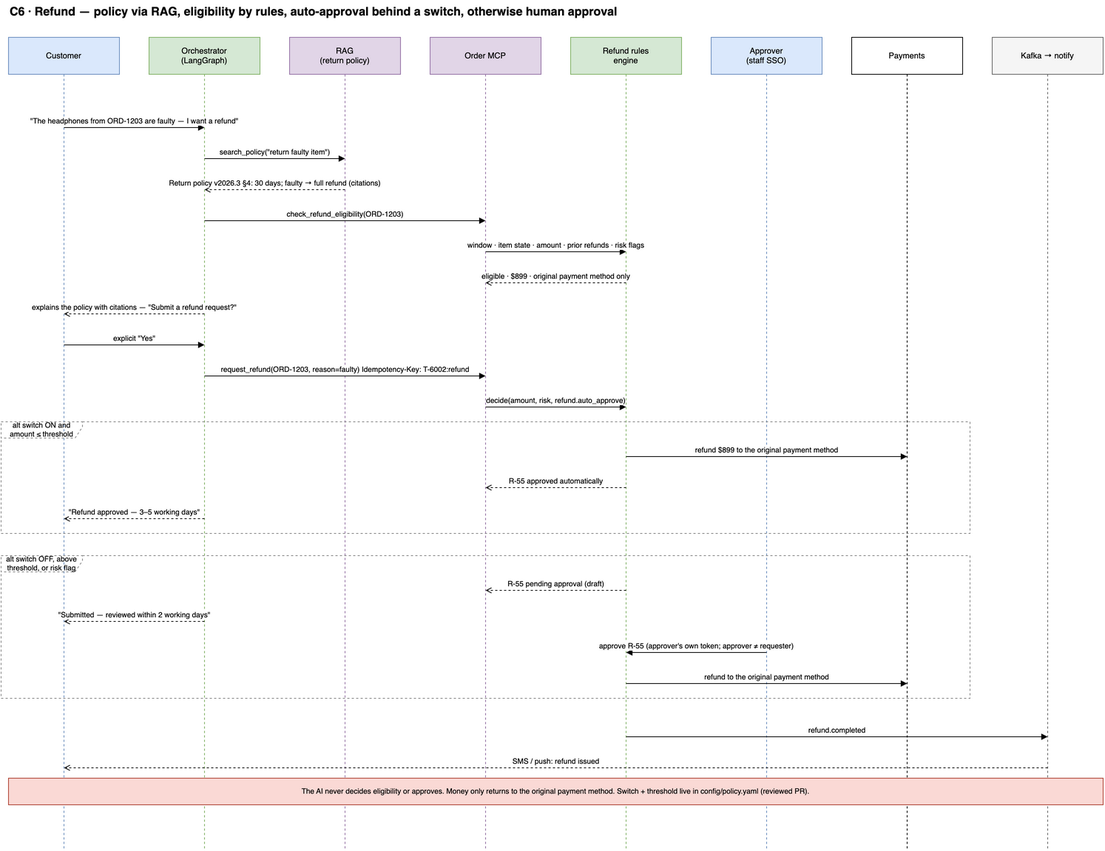
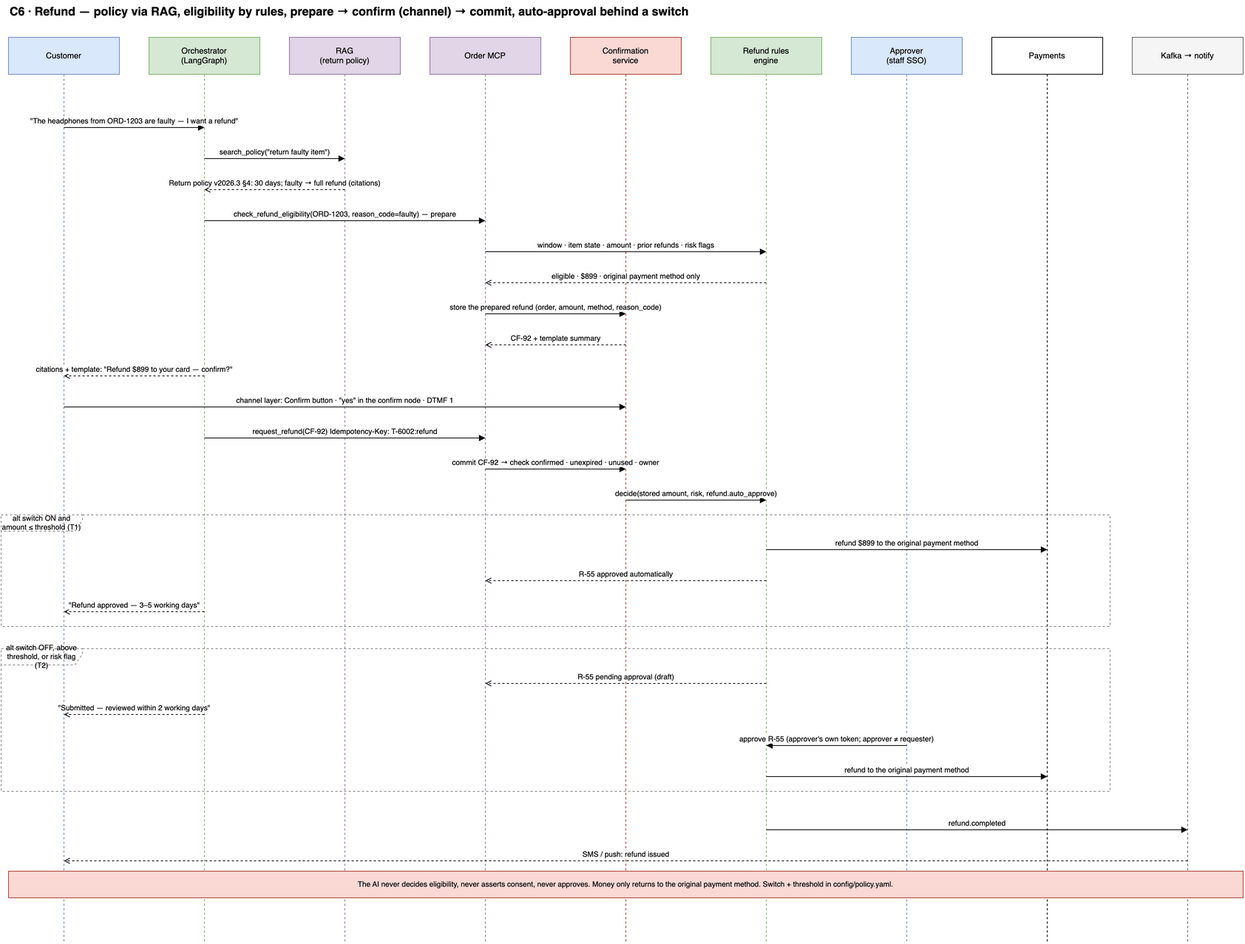
v1.16: T1 contract covers every customer-confirmed write (confirmation service)

diff --git a/tools/gen_sequences.py b/tools/gen_sequences.py
@@ -231,8 +231,9 @@ save(s, "C4-approval-account-change.drawio")
 
 # ---------------- C5 Orders: history lookup + place order ----------------
 s = Sequence("C5 Orders", [("c", "Customer<br>(chat / voice)", "client"), ("or", "Orchestrator<br>(LangGraph)", "core"), ("om", "Order MCP", "agent"),
-                            ("rc", "Redis-cache", "data"), ("os", "Order service<br>(internal GW)", "ext"), ("ar", "Order archive<br>(> 90 days)", "data")])
-s.text("C5 · Orders — history lookup, then place order with quote → confirm → commit", 40, 10, 1100, 30, 16, True)
+                            ("cf", "Confirmation<br>service", "sec"), ("rc", "Redis-cache", "data"), ("os", "Order service<br>(internal GW)", "ext"),
+                            ("ar", "Order archive<br>(> 90 days)", "data")])
+s.text("C5 · Orders — history lookup, then place order with prepare → confirm (channel) → commit", 40, 10, 1200, 30, 16, True)
 s.note_over("c", "ar", "Customer verified · customer_id comes from the token's sub, never a tool argument", zone="sec")
 s.msg("c", "or", "\"The headphones I bought last March?\"")
 s.msg("or", "om", "search_order_history(keyword=headphones, date_range=2025-03, limit≤5)")
@@ -247,49 +248,56 @@ s.msg("or", "c", "chat: UI renders order cards from tool data (not LLM text)", r
 s.msg("or", "c", "voice: \"Two orders in March — the 12th or the 28th?\"", ret=True)
 s.frame("alt  channel", "c", "or", f0, s.y + 20); s.y += 30
 s.msg("c", "or", "\"Order the same again\"")
-s.msg("or", "om", "quote_order(items of ORD-1190, address_ref=default)")
+s.msg("or", "om", "quote_order(items of ORD-1190, address_ref=default)  — prepare")
 s.msg("om", "os", "POST /orders:quote")
-s.msg("os", "om", "Q-77: $899, delivery Fri, confirmation_token (5 min, bound to customer + payload hash)", ret=True)
-s.msg("or", "c", "\"$899, delivered Friday to your default address — confirm?\" (button / say yes / press 1)", ret=True)
-s.msg("c", "or", "explicit \"Yes\"")
-s.msg("or", "om", "place_order(confirmation_token)  — no other parameters")
-s.msg("om", "os", "POST /orders  Idempotency-Key: T-6001:place")
-s.msg("os", "os", "verify token signature · payload hash · expiry · ownership")
+s.msg("os", "om", "Q-77: $899, delivery Fri", ret=True)
+s.msg("om", "cf", "store the prepared action (customer, items, price, address)")
+s.msg("cf", "om", "confirmation_id CF-81 (5 min, single use) + template summary", ret=True)
+s.msg("or", "c", "template from CF-81: \"$899, Friday, default address — confirm?\"", ret=True)
+s.msg("c", "cf", "channel layer: Confirm button (chat) · \"yes\" in the confirm node or DTMF 1 (voice)")
+s.msg("cf", "cf", "CF-81 confirmed by channel (time, channel)")
+s.msg("or", "om", "place_order(CF-81)  — no other parameters")
+s.msg("om", "cf", "commit CF-81")
+s.msg("cf", "cf", "check: confirmed by channel · unexpired · unused · owner")
+s.msg("cf", "os", "POST /orders (stored payload)  Idempotency-Key: T-6001:place")
 s.msg("os", "om", "ORD-1203 created", ret=True)
 s.msg("om", "rc", "purge this customer's order cache")
 s.msg("or", "c", "\"Order ORD-1203 placed\" + order card", ret=True)
-s.note_over("c", "ar", "After confirmation the LLM can't change anything: commit carries only the token; a replay returns the same order", zone="sec")
+s.note_over("c", "ar", "The model never asserts consent and can't change anything after confirmation: commit carries only the ID; a replay returns the same order", zone="sec")
 save(s, "C5-orders.drawio")
 
 # ---------------- C6 Refund ----------------
 s = Sequence("C6 Refund", [("c", "Customer", "client"), ("or", "Orchestrator<br>(LangGraph)", "core"), ("rag", "RAG<br>(return policy)", "agent"),
-                            ("om", "Order MCP", "agent"), ("re", "Refund rules<br>engine", "core"), ("ap", "Approver<br>(staff SSO)", "client"),
-                            ("pay", "Payments", "ext"), ("kf", "Kafka → notify", "data")])
-s.text("C6 · Refund — policy via RAG, eligibility by rules, auto-approval behind a switch, otherwise human approval", 40, 10, 1300, 30, 16, True)
+                            ("om", "Order MCP", "agent"), ("cf", "Confirmation<br>service", "sec"), ("re", "Refund rules<br>engine", "core"),
+                            ("ap", "Approver<br>(staff SSO)", "client"), ("pay", "Payments", "ext"), ("kf", "Kafka → notify", "data")])
+s.text("C6 · Refund — policy via RAG, eligibility by rules, prepare → confirm (channel) → commit, auto-approval behind a switch", 40, 10, 1500, 30, 16, True)
 s.msg("c", "or", "\"The headphones from ORD-1203 are faulty — I want a refund\"")
 s.msg("or", "rag", "search_policy(\"return faulty item\")")
 s.msg("rag", "or", "Return policy v2026.3 §4: 30 days; faulty → full refund (citations)", ret=True)
-s.msg("or", "om", "check_refund_eligibility(ORD-1203)")
+s.msg("or", "om", "check_refund_eligibility(ORD-1203, reason_code=faulty)  — prepare")
 s.msg("om", "re", "window · item state · amount · prior refunds · risk flags")
 s.msg("re", "om", "eligible · $899 · original payment method only", ret=True)
-s.msg("or", "c", "explains the policy with citations — \"Submit a refund request?\"", ret=True)
-s.msg("c", "or", "explicit \"Yes\"")
-s.msg("or", "om", "request_refund(ORD-1203, reason=faulty)  Idempotency-Key: T-6002:refund")
-s.msg("om", "re", "decide(amount, risk, refund.auto_approve)")
+s.msg("om", "cf", "store the prepared refund (order, amount, method, reason_code)")
+s.msg("cf", "om", "CF-92 + template summary", ret=True)
+s.msg("or", "c", "citations + template: \"Refund $899 to your card — confirm?\"", ret=True)
+s.msg("c", "cf", "channel layer: Confirm button · \"yes\" in the confirm node · DTMF 1")
+s.msg("or", "om", "request_refund(CF-92)  Idempotency-Key: T-6002:refund")
+s.msg("om", "cf", "commit CF-92 → check confirmed · unexpired · unused · owner")
+s.msg("cf", "re", "decide(stored amount, risk, refund.auto_approve)")
 f1 = s.y + 20; s.y += 25
 s.msg("re", "pay", "refund $899 to the original payment method")
 s.msg("re", "om", "R-55 approved automatically", ret=True)
 s.msg("or", "c", "\"Refund approved — 3–5 working days\"", ret=True)
-s.frame("alt  switch ON and amount ≤ threshold", "c", "pay", f1, s.y + 20); s.y += 30
+s.frame("alt  switch ON and amount ≤ threshold  (T1)", "c", "pay", f1, s.y + 20); s.y += 30
 f2 = s.y + 20; s.y += 25
 s.msg("re", "om", "R-55 pending approval (draft)", ret=True)
 s.msg("or", "c", "\"Submitted — reviewed within 2 working days\"", ret=True)
 s.msg("ap", "re", "approve R-55 (approver's own token; approver ≠ requester)")
 s.msg("re", "pay", "refund to the original payment method")
-s.frame("alt  switch OFF, above threshold, or risk flag", "c", "pay", f2, s.y + 20); s.y += 30
+s.frame("alt  switch OFF, above threshold, or risk flag  (T2)", "c", "pay", f2, s.y + 20); s.y += 30
 s.msg("re", "kf", "refund.completed")
 s.msg("kf", "c", "SMS / push: refund issued", ret=True)
-s.note_over("c", "kf", "The AI never decides eligibility or approves. Money only returns to the original payment method. Switch + threshold live in config/policy.yaml (reviewed PR).", zone="sec")
+s.note_over("c", "kf", "The AI never decides eligibility, never asserts consent, never approves. Money only returns to the original payment method. Switch + threshold in config/policy.yaml.", zone="sec")
 save(s, "C6-refund.drawio")
 
 # ---------------- C7 Customer satisfaction ----------------

diff --git a/README.md b/README.md
@@ -115,6 +115,7 @@ Both channels handle five kinds of request:
 | **MCP servers** | The tool layer between the agents and the systems of record: account, case, order, change (drafts only) and identity tools. The LLM only ever sees these tools, never the raw APIs ([4.6](#46-tool-and-api-contracts)). Each server has **its own mTLS client certificate**, so the internal gateway knows which server is calling and lets it reach only its own APIs (for example, the change server can create drafts but cannot read orders). |
 | **Model gateway** | Model routing, quotas, cost attribution per channel and feature |
 | **Approval service** | Staff approvals with separation of duties; executes the approved draft itself, then notifies the session or customer |
+| **Confirmation service** | Stores prepared T1 actions; records confirmations from the channel layer (button, voice confirmation node, DTMF); executes only confirmed, unexpired, unused actions |
 | **Notification service** | Post-call message to the chat thread, as a push notification, or by SMS |
 | **Data** | Postgres (checkpoints, tasks, interactions, audit index), Redis (sessions, OTP, rate limits, caches), Milvus (dense + BM25), object storage (clauses, uploads, recordings), Kafka (events) |
 | **Guardrail library** | Input and output rules shared by the runtime guardrails and the rule-eval service ([section 14](#14-guardrails)) |
@@ -198,7 +199,7 @@ In Anthropic's terms this is a **workflow, not an autonomous agent**: a routing 
 | `account_agent` | Qwen3-8B | `get_accounts`, `get_account_detail`, `get_billing_history` | `billing_explain` | verified |
 | `case_agent` | Qwen3-32B | `get_case_status`, `list_required_documents` | `case_guide`, `document_checklist` | verified |
 | `service_agent` | Qwen3-32B | `create_change_draft` (**draft only**) | `profile_change`, `address_change`, `cancellation` | verified + step-up |
-| `order_agent` | Qwen3-32B | `list_orders`, `search_order_history`, `get_order`, `get_spend_summary`, `track_shipment`, `quote_order`, `place_order`, `cancel_order`, `check_refund_eligibility`, `request_refund`, `get_refund_status`, `search_policy` | `order_lookup`, `returns_guide`, `refund_request` | verified; writes need explicit confirmation |
+| `order_agent` | Qwen3-32B | `list_orders`, `search_order_history`, `get_order`, `get_spend_summary`, `track_shipment`, `quote_order`, `place_order`, `preview_cancel`, `cancel_order`, `check_refund_eligibility`, `request_refund`, `get_refund_status`, `search_policy` | `order_lookup`, `returns_guide`, `refund_request` | verified; writes need explicit confirmation |
 
 ### 4.3 Configuration lives in code, not in prompts
 
@@ -251,7 +252,7 @@ Skills belong to the **domain pack**: another industry replaces the folders, not
 | | `cancellation` | Explain the consequences with citations (benefits lost, fees, cooling-off), create a cancellation request task, hand off. **No retention offers** (BND-SCP-07) | **Router** |
 | `order_agent` | `order_lookup` | Find the right order from vague descriptions (date, item, amount) | Model |
 | | `returns_guide` | Return eligibility and steps by product category | Model |
-| | `refund_request` | Quote → confirm → commit; above the threshold, a draft for approval | **Router** |
+| | `refund_request` | Prepare → confirm (by the channel) → commit; above the threshold, a draft for approval | **Router** |
 | shared | `vulnerable_customer` | Signs of distress or vulnerability → gentle tone, no selling, offer a human | Router (sentiment or keyword trigger) |
 
 **SKILL.md format.** Front matter is metadata that code checks at startup; the body is the procedure.
@@ -336,7 +337,7 @@ Static content goes first and dynamic content last, so **vLLM prefix caching** c
 | Tier | Examples | Flow |
 |---|---|---|
 | T0 · read | Order lookup and history, shipment, refund status, return policy | Direct call |
-| T1 · customer-confirmed write | Place an order; cancel an unshipped order; refunds under the auto-approval switch | **Quote → explicit confirmation → commit** |
+| T1 · customer-confirmed write | Place an order; cancel an unshipped order; refunds under the auto-approval switch | **Prepare → confirm (by the channel, not the model) → commit** |
 | T2 · draft + human approval | Refunds above the threshold or with risk flags; account changes | Draft, then approval ([C4](#9-business-flows)) |
 | T3 · never via AI | Change payout bank account or registered phone | Handoff only |
 
@@ -351,17 +352,22 @@ The boundaries these tiers enforce are listed in [Appendix A.2](#a2-action-bound
 | `get_order(order_id)` | T0 | `GET /orders/{id}` |
 | `get_spend_summary(period, group_by?)` | T0 | `GET /customers/me/spend-summary` |
 | `track_shipment(order_id)` | T0 | `GET /orders/{id}/shipment` |
-| `quote_order(items, address_ref)` | T1 | `POST /orders:quote` → summary + `confirmation_token` |
-| `place_order(confirmation_token)` | T1 | `POST /orders` with `Idempotency-Key` |
-| `cancel_order(order_id)` | T1 | `POST /orders/{id}:cancel` (unshipped only) |
-| `check_refund_eligibility(order_id)` | T0 | `GET /orders/{id}/refund-eligibility` |
-| `request_refund(order_id, reason)` | T1 / T2 | `POST /orders/{id}/refund-requests` |
+| `quote_order(items, address_ref)` | T1 prepare | `POST /orders:quote` → template summary + `confirmation_id` |
+| `place_order(confirmation_id)` | T1 commit | `POST /orders` with `Idempotency-Key` |
+| `preview_cancel(order_id)` | T1 prepare | `GET /orders/{id}/cancellation-preview` (unshipped only) → summary + `confirmation_id` |
+| `cancel_order(confirmation_id)` | T1 commit | `POST /orders/{id}:cancel` |
+| `check_refund_eligibility(order_id, reason_code)` | T1 prepare | `GET /orders/{id}/refund-eligibility` → eligibility, amount, method + `confirmation_id` |
+| `request_refund(confirmation_id)` | T1 / T2 commit | `POST /orders/{id}/refund-requests` |
 | `get_refund_status(request_id)` | T0 | `GET /refund-requests/{id}` |
 | `search_policy(query)` | T0 | RAG over return and refund terms; **not an API** |
 
 **Contract rules**
 - **Ownership on every ID** (BOLA, OWASP API1): each `order_id` is checked against the token's `customer_id` (never an ID from the model).
-- **Two-step commit for T1 writes.** The quote returns a signed `confirmation_token` (5 minutes, bound to the customer and a hash of the payload). The customer confirms explicitly (a button in chat; "yes" or DTMF 1 on voice). The commit carries only the token, so the LLM can't change parameters after confirmation.
+- **T1 writes: prepare → confirm → commit, through the confirmation service.**
+  - **Prepare** (read only): `quote_order`, `preview_cancel` and `check_refund_eligibility` work out the exact action from system data (customer from the token, order, amount, payment method, reason code) and **store it server-side in the confirmation service**. They return a template summary and an opaque, single-use `confirmation_id` (5 minutes).
+  - **Confirm, outside the LLM:** the summary is rendered **by template from the stored action**, never paraphrased by the LLM. Chat shows a confirmation card, and the button click goes from the channel layer straight to the confirmation service. Voice reads the template in a dedicated confirmation node; the answer is classified strictly as yes or no, and anything unclear falls back to DTMF 1. The confirmation service records **confirmed by the channel**, with time and channel.
+  - **Commit:** `place_order`, `cancel_order` and `request_refund` take **only the `confirmation_id`**, no business parameters from the model. The stored action runs only if it was confirmed by the channel, hasn't expired or been used, and belongs to the caller. **A model's claim that "the customer confirmed" carries no weight.**
+  - T2 drafts (account changes) don't need this step; human approval protects them. `request_refund` always goes through confirmation; the rules engine then decides auto-approval (T1) or a draft for approval (T2).
 - **Idempotency:** every write takes `Idempotency-Key` (`task_id` + step); a replay returns the original result.
 - **Small results:** lists are paginated with a cursor and capped; each item is a summary (ID, date, amount, status, first item). Too many matches → return the count and ask the customer to narrow it down.
 - **Numbers come from the system.** Totals and spend summaries are computed by the API; the output guardrail checks that amounts in the answer match tool results.
@@ -373,6 +379,7 @@ The boundaries these tiers enforce are listed in [Appendix A.2](#a2-action-bound
 **Refunds**
 - **Eligibility is decided by the refund rules engine, not the LLM:** window, item state, amount, prior refunds, risk flags. The AI explains the return policy with citations.
 - **Money only returns to the original payment method**, which closes the "refund to a new account" attack.
+- **The reason is an enum `reason_code`** (faulty, not as described, …). The customer's own words are kept as a note and never drive a decision.
 - **Auto-approval is behind a switch** in `config/policy.yaml`, changed only through a reviewed pull request:
 
 ```yaml
@@ -737,13 +744,14 @@ Ownership checks always compare against the **token**, never an ID the model sup
 
 **Orders (C5).**
 - History: `search_order_history` queries the main store and the archive; results are summaries, cached for the session; chat shows order cards, voice narrows down.
-- Placing an order: quote → the customer confirms the summary explicitly → commit with the `confirmation_token` and an idempotency key.
+- Placing an order: `quote_order` stores the action in the confirmation service → the customer confirms a template summary through the channel (button, or "yes" / DTMF 1 on voice) → `place_order` with only the `confirmation_id` and an idempotency key.
 
 ![C5 Orders](docs/img/C5-orders.png)
 *C5 · Order history and placing an order — source: [`C5-orders.drawio`](docs/diagrams/C5-orders.drawio)*
 
 **Refund (C6).**
 - The AI explains the return policy from RAG with citations; the rules engine decides eligibility.
+- The eligibility check prepares the refund (`confirmation_id`); the customer confirms a template summary through the channel; `request_refund` takes only the ID.
 - With the switch on and the amount under the threshold, the refund is approved automatically; otherwise it becomes a draft for human approval, as in C4.
 - Money only returns to the original payment method.
 
@@ -1016,7 +1024,7 @@ Defence in depth: any layer can refuse, require step-up, or hand off to a human,
 | 1 · Input | Length (≤ 1,000 characters), rate limits per user and client, PII redacted in logs and traces; **pseudonymised for the LLM** (reversible placeholders such as `<ADDR_1>`, real values held in a per-session vault and substituted only inside tools); ID and card numbers never reach the LLM (DTMF or structured forms); injection classifier, uploads scanned (AV + CDR) with only the clean copy used, external text treated as data rather than instructions |
 | 2 · Identity and routing | Token `aud`, `scope` and `acr`; role → reachable agents; assurance level per intent (verify or step-up); tools = agent allowlist ∩ role; loop and token caps ([Appendix A](#appendix-a-system-boundaries)) |
 | 3 · Retrieval | Filters built from the token (visibility by role, clause version by contract start date, `owner_id`), never from the model |
-| 4 · Tools | Token exchange with a narrow `aud` and `scope`; ownership check plus row-level security; write tools that only create drafts; idempotency keys; quote → confirm → commit for customer-confirmed writes; human approval via `interrupt()`; refunds only to the original payment method, decided by the rules engine; never change phone or bank account |
+| 4 · Tools | Token exchange with a narrow `aud` and `scope`; ownership check plus row-level security; write tools that only create drafts; idempotency keys; prepare → confirm (by the channel, not the model) → commit for T1 writes; human approval via `interrupt()`; refunds only to the original payment method, decided by the rules engine; never change phone or bank account |
 | 5 · Output | Citation check (exists, was retrieved, correct version); fast faithfulness check (8B); no binding commitment; disclaimer when terms are discussed; PII leak check; language match; voice answers ≤ 3 sentences |
 
 **One rule set, three uses.** Each rule is defined once in Git (`evaluators/*.yaml`) and used in three places:
@@ -1630,7 +1638,7 @@ Tiers T0–T3 are defined in [section 4.6](#46-tool-and-api-contracts).
 |---|---|---|---|---|
 | BND-ACT-01 | **Never change the registered phone or payout bank account** | No such tool exists (T3) | Handoff | Social engineering; staged multi-turn requests |
 | BND-ACT-02 | Refunds go **only to the original payment method**; eligibility is decided by the rules engine | Rules engine + API | Rejected | "Refund to my new card", arguing eligibility with the AI |
-| BND-ACT-03 | Customer-confirmed writes only via **quote → explicit confirmation → commit** | Signed `confirmation_token` bound to the payload hash | Rejected | Changing parameters after confirmation; replay; a "yes" planted in a document |
+| BND-ACT-03 | **Every T1 write** (order, cancellation, refund) only via **prepare → confirm → commit**; the confirmation is recorded by the channel layer, never claimed by the model; commit takes only the `confirmation_id` | Confirmation service | Rejected | Swapping the order ID after confirmation; replaying an ID; injected "the customer has confirmed"; a "yes" planted in a document; an LLM summary that differs from the stored action |
 | BND-ACT-04 | **The AI never approves**; approval needs a human staff token and approver ≠ requester | Approval service | Rejected; alert | "I'm the approver", forged resume payloads |
 | BND-ACT-05 | Auto-refund only when the switch is on, the amount is under the threshold and there are no risk flags | `config/policy.yaml` + rules engine | Goes to human approval | Splitting one refund into many small ones; exceeding the 30-day count |
 | BND-ACT-06 | Workers can only call tools in their allowlist ∩ role | Tool binding | The tool isn't visible to the model | Asking for hidden tool names; tool names in injected text |
@@ -1697,7 +1705,7 @@ Numeric limits: timeouts, loop caps, token budgets, rate limits and retention. *
 | Voice access token | 10 min, never beyond the call; no refresh token | Re-verify |
 | Exchanged downstream token | 5 min | Exchange again |
 | Step-up freshness | `max_age = 300` s | Step-up again |
-| `confirmation_token` | 5 min, single use | Quote again |
+| `confirmation_id` | 5 min, single use; runs only if confirmed by the channel | Prepare again |
 | `survey_token` | 24 h, single use | Void |
 | JWKS cache | 1 h; refreshed immediately on an unknown `kid` | — |
 | Clock-skew leeway | 60 s | Rejected |

diff --git a/README.zh-CN.md b/README.zh-CN.md
@@ -117,6 +117,7 @@
 | **MCP server** | Agent 和业务系统之间的工具层：账户、工单、订单、变更（仅草稿）和身份工具。LLM 只能看到这些工具，永远看不到原始 API（[4.6](#46-tool-与-api-契约)）。每个 server 有 **自己的 mTLS 客户端证书**，内部网关因此知道是哪个 server 在调用，只允许它访问自己的 API（例如变更 server 能建草稿，但不能读订单）。 |
 | **模型网关** | 模型路由、配额、按渠道和功能统计成本 |
 | **审批服务** | 员工审批，职责分离；自己执行已批准的草稿，再通知会话或客户 |
+| **确认服务** | 保存准备好的 T1 操作；记录渠道层发来的确认（按钮、语音确认节点、DTMF）；只执行已确认、未过期、未使用的操作 |
 | **通知服务** | 通话后发消息到聊天线程、推送通知或短信 |
 | **数据** | Postgres（checkpoint、任务、交互记录、审计索引）、Redis（会话、OTP、限流、缓存）、Milvus（向量 + BM25）、对象存储（条款、上传文件、录音）、Kafka（事件） |
 | **护栏库** | 运行时护栏与 rule-eval 服务共用的输入和输出规则（[第 14 节](#14-护栏-guardrails)） |
@@ -200,7 +201,7 @@
 | `account_agent` | Qwen3-8B | `get_accounts`, `get_account_detail`, `get_billing_history` | `billing_explain` | 已核验 |
 | `case_agent` | Qwen3-32B | `get_case_status`, `list_required_documents` | `case_guide`, `document_checklist` | 已核验 |
 | `service_agent` | Qwen3-32B | `create_change_draft`（**仅草稿**） | `profile_change`, `address_change`, `cancellation` | 已核验 + step-up |
-| `order_agent` | Qwen3-32B | `list_orders`, `search_order_history`, `get_order`, `get_spend_summary`, `track_shipment`, `quote_order`, `place_order`, `cancel_order`, `check_refund_eligibility`, `request_refund`, `get_refund_status`, `search_policy` | `order_lookup`, `returns_guide`, `refund_request` | 已核验；写操作需要明确确认 |
+| `order_agent` | Qwen3-32B | `list_orders`, `search_order_history`, `get_order`, `get_spend_summary`, `track_shipment`, `quote_order`, `place_order`, `preview_cancel`, `cancel_order`, `check_refund_eligibility`, `request_refund`, `get_refund_status`, `search_policy` | `order_lookup`, `returns_guide`, `refund_request` | 已核验；写操作需要明确确认 |
 
 ### 4.3 配置写在代码里，不写在 prompt 里
 
@@ -253,7 +254,7 @@ Skill 属于 **行业包**：换一个行业时替换这些文件夹，核心不
 | | `cancellation` | 引用条款解释后果（失去的权益、费用、冷静期），建取消请求任务，转人工。**不做挽留**（BND-SCP-07） | **路由器** |
 | `order_agent` | `order_lookup` | 根据模糊描述（日期、商品、金额）找到正确的订单 | 模型 |
 | | `returns_guide` | 按商品类别说明退货条件和步骤 | 模型 |
-| | `refund_request` | 报价 → 确认 → 提交；超过阈值则生成草稿等待审批 | **路由器** |
+| | `refund_request` | 准备 → 确认（由渠道确认）→ 执行；超过阈值则生成草稿等待审批 | **路由器** |
 | 共享 | `vulnerable_customer` | 发现情绪困扰或弱势迹象 → 语气温和、不推销、主动提供人工 | 路由器（情绪或关键词触发） |
 
 **SKILL.md 格式。** Front matter 是启动时由代码校验的元数据；正文是处理流程。
@@ -338,7 +339,7 @@ eval_tags: [cancellation]
 | 级别 | 例子 | 流程 |
 |---|---|---|
 | T0 · 只读 | 订单查询与历史、物流、退款进度、退货政策 | 直接调用 |
-| T1 · 客户确认后执行 | 下单；取消未发货订单；自动批准开关范围内的退款 | **Quote → 明确确认 → commit** |
+| T1 · 客户确认后执行 | 下单；取消未发货订单；自动批准开关范围内的退款 | **准备 → 确认（由渠道确认，不由模型）→ 执行** |
 | T2 · 草稿 + 人工审批 | 超过阈值或有风险标记的退款；账户变更 | 先出草稿，再审批（[C4](#9-业务流程)） |
 | T3 · AI 永不执行 | 修改收款银行账户或登记手机号 | 只能转人工 |
 
@@ -353,17 +354,22 @@ eval_tags: [cancellation]
 | `get_order(order_id)` | T0 | `GET /orders/{id}` |
 | `get_spend_summary(period, group_by?)` | T0 | `GET /customers/me/spend-summary` |
 | `track_shipment(order_id)` | T0 | `GET /orders/{id}/shipment` |
-| `quote_order(items, address_ref)` | T1 | `POST /orders:quote` → 摘要 + `confirmation_token` |
-| `place_order(confirmation_token)` | T1 | `POST /orders`，带 `Idempotency-Key` |
-| `cancel_order(order_id)` | T1 | `POST /orders/{id}:cancel`（仅未发货） |
-| `check_refund_eligibility(order_id)` | T0 | `GET /orders/{id}/refund-eligibility` |
-| `request_refund(order_id, reason)` | T1 / T2 | `POST /orders/{id}/refund-requests` |
+| `quote_order(items, address_ref)` | T1 准备 | `POST /orders:quote` → 模板摘要 + `confirmation_id` |
+| `place_order(confirmation_id)` | T1 执行 | `POST /orders`，带 `Idempotency-Key` |
+| `preview_cancel(order_id)` | T1 准备 | `GET /orders/{id}/cancellation-preview`（仅未发货）→ 摘要 + `confirmation_id` |
+| `cancel_order(confirmation_id)` | T1 执行 | `POST /orders/{id}:cancel` |
+| `check_refund_eligibility(order_id, reason_code)` | T1 准备 | `GET /orders/{id}/refund-eligibility` → 资格、金额、退款方式 + `confirmation_id` |
+| `request_refund(confirmation_id)` | T1 / T2 执行 | `POST /orders/{id}/refund-requests` |
 | `get_refund_status(request_id)` | T0 | `GET /refund-requests/{id}` |
 | `search_policy(query)` | T0 | 对退货和退款条款做 RAG；**不是 API** |
 
 **契约规则**
 - **每个 ID 都校验归属**（BOLA，OWASP API1）：每个 `order_id` 都要和 token 对应的 `customer_id` 对比（从不使用模型给的 ID）。
-- **T1 写操作两步提交。** Quote 返回一个签名的 `confirmation_token`（5 分钟有效，绑定客户和请求内容的 hash）。客户明确确认（聊天里点按钮；语音里说"是"或按 1）。Commit 只带这个 token，所以客户确认之后 LLM 改不了任何参数。
+- **T1 写操作：准备 → 确认 → 执行，由确认服务负责。**
+  - **准备**（只读）：`quote_order`、`preview_cancel` 和 `check_refund_eligibility` 根据系统数据（token 里的客户、订单、金额、支付方式、原因代码）算出要执行的具体操作，**存在服务端的确认服务里**。返回模板摘要和一个不透明、一次性的 `confirmation_id`（5 分钟有效）。
+  - **确认不经过 LLM：** 摘要 **由模板根据存下的操作渲染**，从不由 LLM 改写。聊天显示确认卡片，客户点按钮后由渠道层直接通知确认服务。语音在专门的确认节点按模板朗读，回答严格分类为"是"或"否"，听不清就改为按 1。确认服务记录 **由渠道确认**，以及时间和渠道。
+  - **执行：** `place_order`、`cancel_order` 和 `request_refund` **只接收 `confirmation_id`**，不接收模型给的任何业务参数。只有当这份操作已由渠道确认、未过期、未使用、且属于调用者时才会执行。**模型声称"客户已确认"不起任何作用。**
+  - T2 草稿（账户变更）不需要这一步，由人工审批保护。`request_refund` 一律走确认；之后由规则引擎决定自动批准（T1）还是生成草稿等待审批（T2）。
 - **幂等：** 每个写操作都带 `Idempotency-Key`（`task_id` + 步骤）；重放时返回原来的结果。
 - **结果要小：** 列表用 cursor 分页并设上限；每条只返回摘要（ID、日期、金额、状态、首个商品）。匹配太多 → 返回数量，请客户缩小范围。
 - **数字来自系统。** 合计和消费汇总由 API 计算；输出护栏检查回答里的金额与工具结果一致。
@@ -375,6 +381,7 @@ eval_tags: [cancellation]
 **退款**
 - **能否退款由退款规则引擎决定，不由 LLM 决定：** 退款期限、商品状态、金额、历史退款、风险标记。AI 负责带引用地解释退货政策。
 - **钱只退回原支付方式**，这样就堵住了"退到新账户"的攻击。
+- **原因用枚举的 `reason_code`**（损坏、与描述不符……）。客户的原话作为备注保存，从不参与任何判断。
 - **自动批准受开关控制**，配置在 `config/policy.yaml`，只能通过评审过的 PR 修改：
 
 ```yaml
@@ -738,13 +745,14 @@ channel_binding
 
 **订单（C5）。**
 - 历史：`search_order_history` 同时查询主库和归档库；结果只返回摘要，在会话内缓存；聊天显示订单卡片，语音逐步缩小范围。
-- 下单：quote → 客户明确确认摘要 → 用 `confirmation_token` 和幂等 key commit。
+- 下单：`quote_order` 把操作存进确认服务 → 客户通过渠道确认模板摘要（按钮，或语音说"是" / 按 1）→ `place_order` 只带 `confirmation_id` 和幂等 key。
 
 ![C5 Orders](docs/img/C5-orders.png)
 *C5 · 历史订单与下单 —— 源文件：[`C5-orders.drawio`](docs/diagrams/C5-orders.drawio)*
 
 **退款（C6）。**
 - AI 根据 RAG 带引用地解释退货政策；规则引擎决定能否退款。
+- 资格检查同时准备好这笔退款（`confirmation_id`）；客户通过渠道确认模板摘要；`request_refund` 只接收这个 ID。
 - 开关打开且金额低于阈值时，退款自动批准；否则变成草稿等人工审批，和 C4 一样。
 - 钱只退回原支付方式。
 
@@ -1017,7 +1025,7 @@ LangMem 还会自己发起 LLM 调用，这会绕过模型网关、prompt 版本
 | 1 · 输入 | 长度（≤ 1,000 字符）、按用户和客户端限流、日志和 trace 中的 PII 脱敏；**进入 LLM 前做假名化**（可还原的占位符，例如 `<ADDR_1>`，真实值存在会话级保险库里，只在工具内部替换回去）；证件号和卡号永不进入 LLM（用 DTMF 或结构化表单）；注入分类器、上传文件扫描（AV + CDR）且只使用净化后的副本、外部文本视为数据而非指令 |
 | 2 · 身份与路由 | Token 的 `aud`、`scope` 和 `acr`；角色 → 可达的 agent；每个意图的认证等级（核验或 step-up）；工具 = agent 白名单 ∩ 角色；循环与 token 上限（[附录 A](#附录-a-系统边界)） |
 | 3 · 检索 | 过滤条件根据 token 构建（按角色的可见性、按合同起始日的条款版本、`owner_id`），从不由模型决定 |
-| 4 · 工具 | 用窄 `aud` 和 `scope` 做 token exchange；归属检查加行级安全；写工具只生成草稿；幂等 key；客户确认类写操作走 quote → 确认 → commit；通过 `interrupt()` 人工审批；退款只退回原支付方式，由规则引擎决定；永不修改手机号或银行账户 |
+| 4 · 工具 | 用窄 `aud` 和 `scope` 做 token exchange；归属检查加行级安全；写工具只生成草稿；幂等 key；T1 写操作走 准备 → 确认（由渠道确认，不由模型）→ 执行；通过 `interrupt()` 人工审批；退款只退回原支付方式，由规则引擎决定；永不修改手机号或银行账户 |
 | 5 · 输出 | 引用检查（存在、确实检索到、版本正确）；快速忠实度检查（8B）；无约束性承诺；谈到条款时附免责声明；PII 泄漏检查；语言一致；语音回答 ≤ 3 句 |
 
 **一套规则，三种用途。** 每条规则在 Git 里定义一次（`evaluators/*.yaml`），用在三个地方：
@@ -1631,7 +1639,7 @@ T0–T3 分级见[第 4.6 节](#46-tool-与-api-契约)。
 |---|---|---|---|---|
 | BND-ACT-01 | **永不修改登记手机号或收款银行账户** | 根本没有这类工具（T3） | 转人工 | 社会工程；多轮分步请求 |
 | BND-ACT-02 | 退款 **只退回原支付方式**；能否退款由规则引擎决定 | 规则引擎 + API | 拒绝 | "退到我的新卡"、和 AI 争论退款资格 |
-| BND-ACT-03 | 客户确认类写操作只能走 **quote → 明确确认 → commit** | 签名的 `confirmation_token`，绑定请求内容 hash | 拒绝 | 确认后改参数；重放；文档里埋一个"是" |
+| BND-ACT-03 | **所有 T1 写操作**（下单、取消、退款）只能走 **准备 → 确认 → 执行**；确认由渠道层记录，绝不由模型声明；执行只接收 `confirmation_id` | 确认服务 | 拒绝 | 确认后替换订单号；重放 ID；注入"客户已确认"；文档里埋一个"是"；LLM 摘要与存下的操作不一致 |
 | BND-ACT-04 | **AI 永不审批**；审批需要人类员工 token，且审批人 ≠ 申请人 | 审批服务 | 拒绝；告警 | "我就是审批人"、伪造的 resume 内容 |
 | BND-ACT-05 | 只有开关打开、金额低于阈值且无风险标记时才自动退款 | `config/policy.yaml` + 规则引擎 | 转人工审批 | 把一笔退款拆成多笔小额；超过 30 天内次数 |
 | BND-ACT-06 | Worker 只能调用白名单 ∩ 角色内的工具 | 工具绑定 | 模型看不到该工具 | 打听隐藏的工具名；注入文本里写工具名 |
@@ -1698,7 +1706,7 @@ T0–T3 分级见[第 4.6 节](#46-tool-与-api-契约)。
 | 语音 access token | 10 分钟，不超过通话时长；没有 refresh token | 重新核验 |
 | 换出来的下游 token | 5 分钟 | 重新换取 |
 | Step-up 新鲜度 | `max_age = 300` 秒 | 再次 step-up |
-| `confirmation_token` | 5 分钟，一次性 | 重新 quote |
+| `confirmation_id` | 5 分钟，一次性；只有经渠道确认才会执行 | 重新准备 |
 | `survey_token` | 24 小时，一次性 | 作废 |
 | JWKS 缓存 | 1 小时；遇到不认识的 `kid` 立即刷新 | — |
 | 时钟偏差容忍 | 60 秒 | 拒绝 |

diff --git a/CHANGELOG.md b/CHANGELOG.md
@@ -8,6 +8,24 @@ Newest first. Each entry is written in English and Chinese. Diagram IDs refer to
 
 ---
 
+## v1.16 — 2026-11-26
+
+**English**
+- **Fix: the T1 contract now covers every customer-confirmed write**, not just placing an order. `cancel_order` and `request_refund` previously took model-supplied arguments with no quote or token, so BND-ACT-03 only protected orders.
+- All T1 writes are now **prepare → confirm → commit** through a new **confirmation service**: prepare tools (`quote_order`, new `preview_cancel`, `check_refund_eligibility`) store the exact action server-side and return a `confirmation_id`; commit tools take only that ID.
+- **Consent is recorded by the channel layer, not claimed by the model**: a template summary rendered from the stored action (never LLM-paraphrased); chat confirmation button; voice confirmation node with DTMF fallback.
+- Refund reasons become an enum `reason_code`. T2 drafts stay protected by human approval.
+- Updated: 4.6, components, order skill, section 9, C5 and C6 diagrams, guardrail layer 4, BND-ACT-03 (new red-team cases), A.5.2 (`confirmation_token` → `confirmation_id`).
+
+**中文**
+- **修复：T1 契约现在覆盖所有客户确认类写操作**，而不只是下单。之前 `cancel_order` 和 `request_refund` 直接接收模型给的参数，没有 quote 也没有 token，所以 BND-ACT-03 实际只保护了下单。
+- 所有 T1 写操作改为通过新的 **确认服务** 走 **准备 → 确认 → 执行**：准备类工具（`quote_order`、新增的 `preview_cancel`、`check_refund_eligibility`）把具体操作存在服务端并返回 `confirmation_id`；执行类工具只接收这个 ID。
+- **同意由渠道层记录，不由模型声明**：摘要按模板根据存下的操作渲染（不经 LLM 改写）；聊天用确认按钮；语音用确认节点，听不清就按 1。
+- 退款原因改为枚举的 `reason_code`。T2 草稿仍由人工审批保护。
+- 同步修改：4.6、组件表、订单 skill、第 9 节、C5 和 C6 图、护栏第 4 层、BND-ACT-03（新增红队测试）、A.5.2（`confirmation_token` → `confirmation_id`）。
+
+---
+
 ## v1.15 — 2026-11-25
 
 **English**
